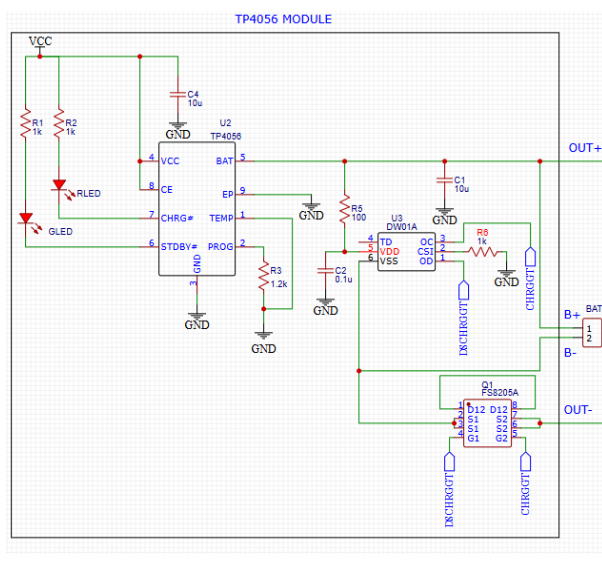
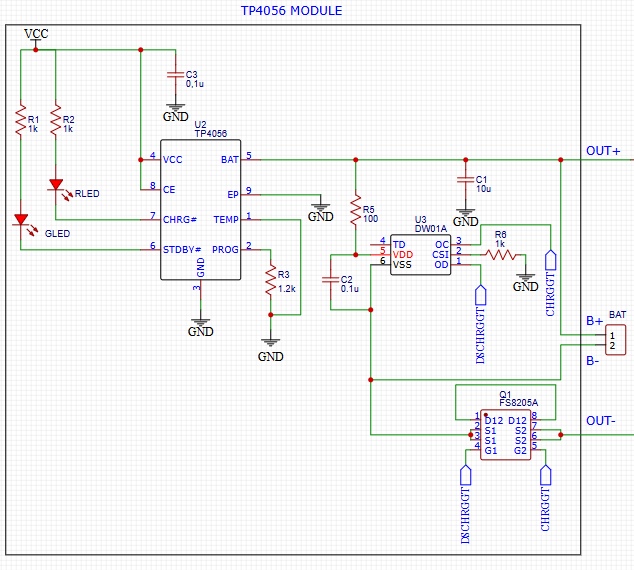
Agregadas ventajas y desventajas de solucion 3 y reducida la explicacion de solucion adoptada

Changed region(s): [[0.0, 0.0, 1.0, 0.9877]]

diff --git a/Trabajo_de_Graduación_Natalia_Carolina_Borbón___Facundo_Ordoñez_Nadra/capitulos/capitulo3.tex b/Trabajo_de_Graduación_Natalia_Carolina_Borbón___Facundo_Ordoñez_Nadra/capitulos/capitulo3.tex
@@ -1982,9 +1982,38 @@ Desventajas:
 
 \keyword{3- Regulador de carga y Buck-Boost}
 
-Para evitar la pérdida de eficiencia que presenta la doble regulación del método anterior, una solución aparente consiste en emplear un regulador \emph{Buck-Boost}, como el módulo \emph{XL6009} ilustrado en la figura \ref{fig:xl6009}. Este dispositivo permite entregar 3,3 V directos, lo que omite la necesidad de alimentar el microcontrolador con 5 V. No obstante, la ganancia teórica en eficiencia trae consigo un aumento en el costo económico y en la complejidad del circuito. Además, el análisis de su hoja de datos revela que este componente exige una tensión de entrada nominal de al menos 5 V, un valor que supera la capacidad de suministro directo de una batería de litio.
+Para evitar la pérdida de eficiencia de la doble regulación del método anterior, una alternativa consiste en reemplazar el módulo elevador por un regulador \emph{Buck-Boost}, como el \emph{XL6009} ilustrado en la figura \ref{fig:xl6009}.
 
-La frecuencia de conmutación (o llaveo) representa otro inconveniente significativo. A diferencia del módulo \emph{MT3608}, que opera a 1,2 MHz, el \emph{XL6009} trabaja a tan solo 400 kHz. Esta menor velocidad de conmutación genera un rizado de tensión (\emph{ripple}) mucho más pronunciado a la salida. Una señal de alimentación con alto nivel de ruido eléctrico resulta sumamente perjudicial para la estabilidad de un servidor Wi-Fi y de una cámara con transmisión de video en tiempo real. Mitigar este defecto obliga a incorporar capacitores de filtrado de gran tamaño, lo cual compromete de nuevo la optimización del espacio físico.
+Ventajas:
+
+Conserva los beneficios de la solución 2 y suma una mayor eficiencia energética. Este dispositivo entrega 3,3 V directos, lo que elimina la necesidad de alimentar el microcontrolador con 5 V y, por lo tanto, se omite la segunda etapa de conversión.
+
+%\begin{itemize}
+
+ %   \item Facilidad de reparación: al tratarse de circuitos separados, las fallas puntuales se solucionan con el reemplazo exclusivo del módulo afectado. Esto evita alterar el resto del sistema.
+    
+   % \item Carga térmica distribuida: la temperatura generada por cada circuito es independiente del otro. Esto permite una disipación de calor más uniforme a lo largo de la placa.
+    
+   % \item Ausencia de \emph{dropout} y soporte para picos de corriente: el \emph{MT3608} integra un regulador conmutado (\emph{switching}). Este circuito opera con transistores MOSFET en sus zonas de corte y saturación. En consecuencia, elimina las caídas apreciables de tensión entre la entrada y la salida. A su vez, el sistema compensa los picos dinámicos de corriente mediante el ajuste automático del ciclo de trabajo del interruptor interno.
+    
+    %\item Doble regulación de tensión: al ingresar 5 V por el pin correspondiente, el \emph{ESP32} emplea su propio regulador interno para reducir la tensión a 3,3 V. Esto añade una capa extra de filtrado y estabilidad.
+    
+    %\item Aumento de eficiencia: este dispositivo permite entregar 3,3 V directos, lo que omite la necesidad de alimentar el microcontrolador con 5 V. Esto elimina la necesidad de realizar la conversión de energía interna del \emph{ESP-32}.
+
+Desventajas: 
+
+Además de las limitaciones presentes en la solución 2, incorpora los siguientes inconvenientes:
+
+\begin{itemize}
+
+\item Mayor costo y complejidad: incrementa el valor económico y dificulta la adquisición de repuestos.
+
+\item Baja frecuencia de conmutación: a diferencia del módulo \emph{MT3608}, que opera a 1,2 MHz, el \emph{XL6009} trabaja a tan solo 400 kHz. Esta menor velocidad genera un rizado de tensión (\emph{ripple}) muy pronunciado a la salida, un factor sumamente perjudicial para la estabilidad del servidor Wi-Fi y de la transmisión de video.
+
+\item Restricción de voltaje de entrada: representa el punto más débil de esta propuesta. Según su hoja de datos, el componente exige una tensión de entrada de al menos 5 V, un valor que supera la capacidad de suministro directo de una celda de litio.
+
+\end{itemize}
+
 
 \begin{figure}[htbp]
     \centering
@@ -2079,7 +2108,7 @@ El funcionamiento detallado de estos circuitos integrados y de sus respectivos m
 
 El proceso de carga del módulo \emph{TP4056} se desarrolla en un ciclo de dos fases.
 
-En una primera etapa, el circuito carga la batería a corriente constante. Esto significa que inyecta un valor fijo, predefinido por el diseñador, para que la carga inicie rápida. De manera simultánea, el chip monitorea el voltaje de la celda. Al alcanzar los 4,2 V, inicia la fase de voltaje constante. En este punto, el sistema permite que la batería absorba solo la corriente necesaria para evitar daños físicos. Si el proceso operara siempre a corriente constante, la celda recibiría un exceso de energía que terminaría por destruirla. Por el contrario, un suministro exclusivo a voltaje constante prolonga la carga de forma excesiva, lo cual resulta poco práctico. Para resolver este problema, el integrado alterna de forma automática entre ambos modos.
+En una primera etapa, el circuito carga la batería a corriente constante. Esto significa que inyecta un valor fijo, predefinido por el diseñador, para acelerar el inicio de la carga. De manera simultánea, el chip monitorea el voltaje de la celda. Al alcanzar los 4,2 V, inicia la fase de voltaje constante. En este punto, el sistema permite que la batería absorba solo la corriente necesaria para evitar daños físicos. Si el proceso operara siempre a corriente constante, la celda recibiría un exceso de energía que terminaría por destruirla. Por el contrario, un suministro exclusivo a voltaje constante prolonga la carga de forma excesiva, lo cual resulta poco práctico. Para resolver este problema, el integrado alterna de forma automática entre ambos modos.
 
 Además, el \emph{TP4056} detiene el suministro durante la fase de voltaje constante cuando la corriente absorbida decae por debajo del 10 \% del valor programado. Esta medida evita la sobrecarga de la celda.
 
@@ -2090,16 +2119,10 @@ En resumen, sus características más relevantes son:
     \item Operación dinámica entre corriente constante y voltaje constante.
     \item Carga máxima hasta un valor fijo de 4,2 V.
     \item Fin de carga automático.
-    \item UVLO (Bloqueo por bajo voltaje).
-    \item Umbral de carga lenta.
-    \item Arranque suave de corriente.
+    \item UVLO (Bloqueo por bajo voltaje): bloquea la carga ante una alimentación inestable o insuficiente.
+    \item Umbral de carga lenta: ante baterías de muy bajo voltaje, activa inicialmente un modo de carga lenta.
+    \item Arranque suave: la absorción de corriente ocurre de forma gradual.
 \end{itemize}
-
-UVLO (\emph{Under Voltage Lockout}): Es una función de seguridad que bloquea la carga si se introduce una alimentación inestable o insuficiente. Así, previene daños tanto en la batería como en los circuitos internos.
-
-Umbral de carga lenta: Si la batería presenta un voltaje inferior a 3,0 V, el \emph{TP4056} activa el modo de carga lenta. En este estado, envía solo el 10 \% de la corriente programada hasta superar dicho umbral. Esto se hace para evitar sobrecargar una batería en mal estado. Tras alcanzar un nivel seguro, el proceso continúa de forma normal.
-
-Arranque suave de corriente: Constituye una medida de protección ante la fuente externa. Al conectar el circuito, la absorción de corriente no ocurre de forma brusca, sino que aumenta de manera gradual para evitar picos que dañen los componentes.
 
 Su diagrama de pines es el siguiente:
 
@@ -2110,33 +2133,32 @@ Su diagrama de pines es el siguiente:
     \label{fig:tp4056pinout}
 \end{figure}
 
+%\begin{enumerate}
 
-\begin{enumerate}
+%\item TEMP: Entrada de sensor de temperatura. No se utiliza en el desarrollo de este dispositivo.
 
-\item TEMP: Entrada de sensor de temperatura. No se utiliza en el desarrollo de este dispositivo.
+%\item PROG: Entrada de programación de corriente de carga. A este pin se le conecta una resistencia denotada como $R_{prog}$ para establecer el valor de la corriente, calculado como:
+    
+  %  \begin{equation}
+   % R_{prog} = \frac{1200}{I_{bat}}
+   % \end{equation}
+    
+%Donde $I_{bat}$ es la corriente en amperios elegida por el diseñador, con un valor máximo de 1 A.
 
-\item PROG: Entrada de programación de corriente de carga. A este pin se le debe conectar una resistencia denotada como \emph{RPROG} para establecer el valor de la corriente de carga, calculado como:
+%\item GND: Tensión de referencia.
 
-\begin{equation}
-Rprog = 1200*Ibat
-\end{equation}
+%\item VCC: Entrada de alimentación externa.
 
-Donde \emph{Ibat} es la corriente en miliamperios elegida por el diseñador, con un valor máximo de 1000 mA.
+%\item BAT: Salida que se conecta al terminal positivo de la batería.
 
-\item GND: Tensión de referencia.
+%\item STDBY: Salida en alta impedancia que se vuelve nula cuando la carga está completa.
 
-\item VCC: Entrada de alimentación externa.
+%\item CHRG: Salida en alta impedancia que se vuelve nula mientras la celda se está cargando.
 
-\item BAT: Salida que se conecta al terminal positivo de la pila.
+%\item CE: Habilitación del chip.
 
-\item STDBY: Salida en alta impedancia que se vuelve nula cuando la carga está completa.
-
-\item CHRG: Salida en alta impedancia que se vuelve nula mientras la pila se está cargando.
-
-\item CE: Habilitación del chip.
-
-\end{enumerate}
-
+%\end{enumerate}
+    
 A continuación se detalla el circuito de aplicación típico de este chip. Este esquema corresponde al módulo comercial estándar empleado en el presente proyecto:
 
 \begin{figure}[H]
@@ -2146,19 +2168,27 @@ A continuación se detalla el circuito de aplicación típico de este chip. Este
     \label{fig:tp4056placa}
 \end{figure}
 
-En primer lugar, se observa un puente directo entre los pines CE y VCC. Esta conexión se justifica porque el diseño no requiere deshabilitar el integrado en ningún momento. Además, la entrada incorpora un capacitor (C4) para drenar el ruido eléctrico proveniente de la fuente de alimentación.
+En primer lugar, se observa un puente directo entre los pines CE (habilitación) y VCC (alimentación), por lo que el chip permanece habilitado durante el uso.
 
-Por otro lado, los cátodos de dos diodos LED se enlazan a las salidas CHRG y STDBY. El esquema comercial emplea un indicador rojo para el primer pin y uno verde para el segundo. Estos componentes visuales le informan al usuario el estado exacto del proceso de recarga.
+Por otro lado, los cátodos de dos diodos LED se enlazan a las salidas CHRG y STDBY. Estos pines operan a nivel bajo, por lo que drenan corriente para encender los indicadores visuales que informan el estado del proceso (rojo para carga en curso y verde para carga completa).
 
-En el pin PROG se instala una resistencia $R_{prog}$ (identificada como R3 en el diagrama) de 1,2 k$\Omega$. Este es el valor configurado por defecto de fábrica y establece una corriente de carga programada de 1 A, junto con una corriente de corte de 100 mA.
+En el pin PROG se instala una resistencia $R_{prog}$ (identificada como R3 en el diagrama) de 1,2 k$\Omega$. Según el fabricante, la corriente de carga máxima ($I_{bat}$) se determina mediante la siguiente relación:
 
-El pin TEMP (sensor de temperatura) se acopla directamente a tierra (GND) debido a que esta función permanece inactiva. Lo mismo ocurre con el pin 9 (EP), destinado a la disipación térmica del encapsulado.
+\begin{equation}
+I_{bat} = \frac{1200}{R_{prog}}
+\end{equation}
 
-La salida de energía del pin BAT no se vincula de forma exclusiva a la batería. Se enlaza primero a un capacitor de desacople (C1) y se conecta con otros dos circuitos integrados de protección incluidos en la placa: el \emph{DW01A} y el \emph{FS8205A}.
+Al aplicar el valor de esta resistencia, el circuito establece una corriente de carga de 1 A y, en consecuencia, una corriente de corte de 100 mA (el 10 \% del valor programado).
+
+El pin TEMP (sensor de temperatura) y el EP (utilizado para disipación térmica) se acoplan directamente a tierra (GND), ya que no se utilizan.
+
+La salida de energía del pin BAT no se vincula de forma exclusiva a la batería. Se enlaza primero a otros dos circuitos integrados de protección incluidos en la placa: el \emph{DW01A} y el \emph{FS8205A}.
 
 El chip \emph{DW01A} opera como un monitor constante de voltaje y corriente. Si registra una tensión fuera de los márgenes seguros o detecta un cortocircuito, envía una alerta al \emph{FS8205A} a través de los pines CHRGGT y DSCHRGGT. Al recibir esta señal, este segundo integrado desconecta físicamente la celda del resto del circuito.
 
-En condiciones normales de operación, la batería se acopla mediante los terminales B+ y B- al pin BAT y a GND respectivamente. Cuando el sistema de protección interviene, los transistores MOSFET internos del \emph{FS8205A} se abren. Esto aísla el terminal B- de la tierra (GND) y, por lo tanto, interrumpe por completo el flujo de energía. Finalmente, las terminales OUT+ y OUT- derivan la alimentación segura hacia la siguiente etapa del sistema.
+En condiciones normales de operación, la batería se acopla mediante los terminales B+ y B- al pin BAT y a GND respectivamente. Cuando el sistema de protección interviene, los transistores MOSFET internos del \emph{FS8205A} se abren. Esto aísla el terminal B- de la tierra (GND) y, por lo tanto, interrumpe por completo el flujo de energía. Finalmente, las terminales OUT+ y OUT- derivan la alimentación segura hacia la siguiente etapa del sistema. 
+
+Los capacitores C1, C2 y C4 actúan como filtros de ruido.
 
 
 \subsubsection{Estabilización de voltaje}
@@ -2206,9 +2236,11 @@ Su circuito interno es el siguiente:
 
 El transistor M1 representa el interruptor principal del circuito elevador. Su estado se controla mediante un bloque lógico conectado a su compuerta.
 
-La regulación inicia con el amplificador de error. Este componente compara la señal de retroalimentación ($V_{FB}$, una fracción de la tensión de salida) con una referencia interna estable de 0,6 V ($V_{REF}$). Si la salida excede el valor configurado ($V_{FB} > V_{REF}$), el amplificador reduce la magnitud de la señal de error. Si la salida decae ($V_{FB} < V_{REF}$), la señal de error aumenta. Cuando el sistema alcanza el equilibrio ($V_{FB} = V_{REF}$), el amplificador emite una señal constante. En el diseño se debe procurar que $V_{FB}$ tome el valor de 0,6 V cuando la salida se encuentre en su valor deseado. 
+La regulación inicia con el amplificador de error. Este componente compara la señal de retroalimentación ($V_{FB}$, una fracción de la tensión de salida) con una referencia interna estable de 0,6 V ($V_{REF}$). Si la salida excede el valor configurado ($V_{FB} > V_{REF}$), el amplificador reduce la magnitud del error. Si la salida decae ($V_{FB} < V_{REF}$), el error aumenta. Cuando el sistema alcanza el equilibrio ($V_{FB} = V_{REF}$), el amplificador emite un valor constante. En el diseño se debe procurar que $V_{FB}$ alcance los 0,6 V cuando la salida adquiera el nivel deseado. 
 
-Esta señal de error ingresa al comparador PWM junto con una onda diente de sierra proveniente de un oscilador interno. La intersección de ambas señales determina de forma directa el ancho del pulso de control (Fig. \ref{fig:pwm}). Una señal de error alta prolonga el tiempo de encendido del transistor, lo que incrementa la tensión de salida. Por el contrario, una señal de error baja recorta el pulso y hace caer el voltaje final. De esta manera, el sistema compensa de forma automática cualquier variación en la carga.
+Este nivel de error determina el ciclo de trabajo del transistor mediante una modulación de ancho de pulso, cruzada con una onda diente de sierra proveniente de un oscilador interno. Como ilustra la figura \ref{fig:pwm}, el valor del \emph{duty cycle} resulta ser proporcional a la magnitud de este error.
+
+%Esta señal de error ingresa al comparador PWM junto con una onda diente de sierra proveniente de un oscilador interno. La intersección de ambas señales determina de forma directa el ancho del pulso de control (Fig. \ref{fig:pwm}). Una señal de error alta prolonga el tiempo de encendido del transistor, lo que incrementa la tensión de salida. Por el contrario, una señal de error baja recorta el pulso y hace caer el voltaje final. De esta manera, el sistema compensa de forma automática cualquier variación en la carga.
 
 \begin{figure}[H]
     \centering
@@ -2219,7 +2251,7 @@ Esta señal de error ingresa al comparador PWM junto con una onda diente de sier
 
 Por último, el circuito incluye un sensor de corriente que cumple dos propósitos fundamentales. Por un lado, funciona como un mecanismo de protección, que interrumpe la conmutación si la corriente a través del transistor supera los límites seguros. Por otro lado, aporta una lectura instantánea al comparador PWM, lo que otorga mayor estabilidad al sistema frente a variaciones bruscas de consumo en la carga.
 
-A partir del funcionamiento interno expuesto, se detalla a continuación el diagrama de pines:
+A partir del funcionamiento interno expuesto, se ilustra a continuación el diagrama de pines:
 
 \begin{figure}[H]
     \centering
@@ -2228,22 +2260,22 @@ A partir del funcionamiento interno expuesto, se detalla a continuación el diag
     \label{fig:mt3608pinout}
 \end{figure}
 
-\begin{itemize}
-    \item SW: Conecta el drenador del MOSFET interno M1 con el circuito \emph{boost} externo.
+%\begin{itemize}
+   % \item SW: Conecta el drenador del MOSFET interno M1 con el circuito \emph{boost} externo.
     
-    \item GND: Tensión de referencia (tierra).
+    %\item GND: Tensión de referencia (tierra).
     
-    \item FB: Entrada de retroalimentación (\emph{feedback}). Recibe una muestra de la tensión de salida para compararla con la referencia interna de 0,6 V.
+    %\item FB: Entrada de retroalimentación (\emph{feedback}). Recibe una muestra de la tensión de salida para compararla con la referencia interna de 0,6 V.
     
-    \item EN: Pin de habilitación del integrado.
+   % \item EN: Pin de habilitación del integrado.
     
-    \item IN: Entrada de alimentación. 
+    %\item IN: Entrada de alimentación. 
     
-    \item \textbf{NC:} Sin conexión interna (\emph{Not Connected}).
+    %\item \textbf{NC:} Sin conexión interna (\emph{Not Connected}).
     
-\end{itemize}
+%\end{itemize}
 
-El siguiente esquema ilustra el circuito típico implementado en los módulos \emph{MT3608} comerciales, los cuales incorporan los componentes externos necesarios:
+El siguiente esquema muestra el circuito típico implementado en los módulos \emph{MT3608} comerciales, los cuales incorporan los componentes externos necesarios:
 
 \begin{figure}[H]
     \centering
@@ -2252,13 +2284,13 @@ El siguiente esquema ilustra el circuito típico implementado en los módulos \e
     \label{fig:mt3608placa}
 \end{figure}
 
-En la etapa de entrada, los pines IN y EN se encuentran cortocircuitados y conectados a la tensión de la celda de litio (3,7 V). Al igual que en el módulo de carga, el diseño no requiere deshabilitar el integrado de forma manual. Este nodo de entrada se acopla además a uno de los terminales del inductor de 22 uH.
+En la etapa de entrada, los pines IN (entrada) y EN (habilitación) se encuentran cortocircuitados y conectados a la tensión de la celda de litio (3,7 V). Esto permite que el chip permanezca activo durante el uso. A su vez, este nodo de entrada se acopla a uno de los terminales del inductor de 22 uH.
 
-El pin SW se vincula al segundo terminal del inductor y al ánodo de un diodo de conmutación rápida.
+El pin SW (drenador del MOSFET) se vincula al segundo terminal del inductor y al ánodo de un diodo de conmutación rápida.
 
-Por último, el pin FB se conecta a un divisor resistivo formado por un potenciómetro de 100 k$\Omega$ en serie con una resistencia fija de 2,2 k$\Omega$. El potenciómetro cuenta con un tornillo de ajuste que permite calibrar la tensión de salida, logrando un rango operativo continuo desde un mínimo de 0,6 V hasta un máximo absoluto de 28 V.
+Por último, el pin FB se conecta a un divisor resistivo formado por un potenciómetro de 100 k$\Omega$ en serie con una resistencia fija de 2,2 k$\Omega$. El potenciómetro cuenta con un tornillo de ajuste para calibrar la tensión de salida, logrando un rango operativo continuo desde un mínimo de 0,6 V hasta un máximo absoluto de 28 V.
 
-El esquema se completa con el capacitor de filtrado de salida (C6), un capacitor de desacople en la entrada (C5) y la conexión general a la masa del circuito.
+El esquema se completa con los capacitores C5 y C6, utilizados para el filtrado de armónicos y reducción del ruido eléctrico.
 
 \subsection{Circuito de carga del ONX}
 
